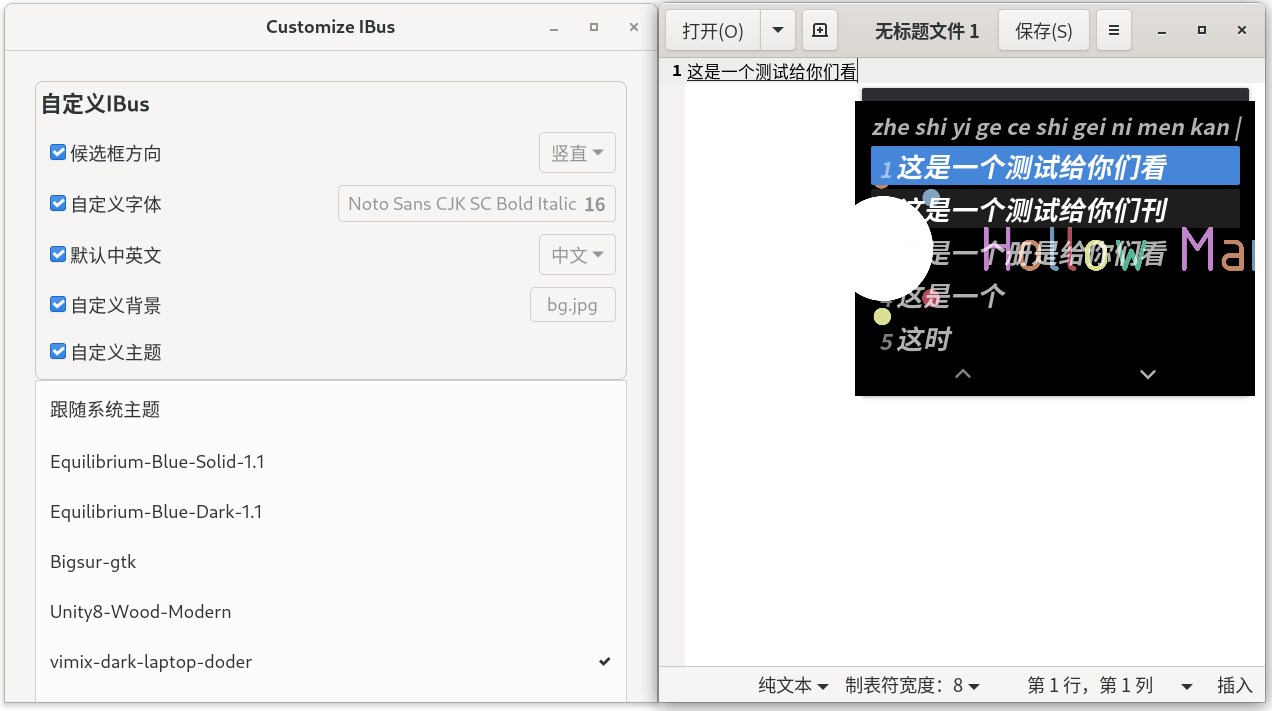
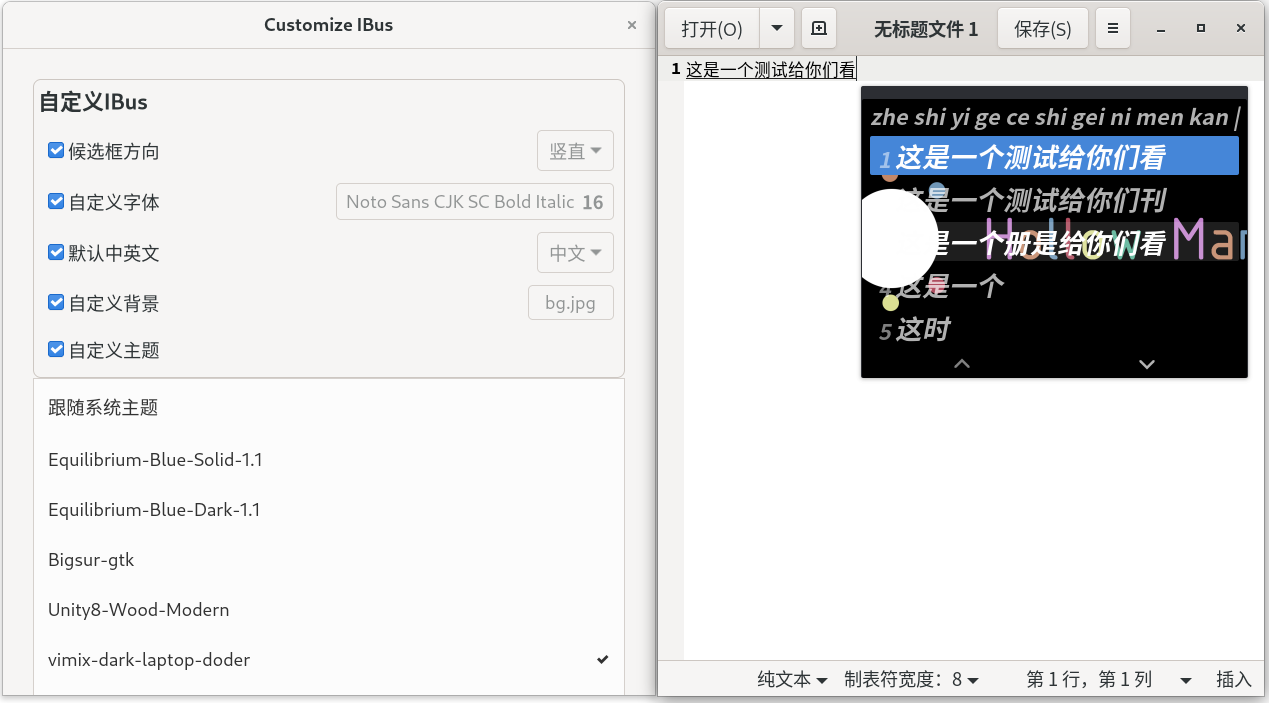
v11: Fix background picture showing style to fit current user style
By adding candidate-box style

For GNOME 3.38

diff --git a/customize-ibus@hollowman.ml/extension.js b/customize-ibus@hollowman.ml/extension.js
@@ -213,17 +213,22 @@ const IBusBGSetting = GObject.registerClass(
     set bg(bg) {
       global.log(_("loading background for IBus:") + bg);
       let candidateBox = CandidatePopup.bin.get_children();
-      if (candidateBox)
+      if (candidateBox) {
         candidateBox[0].set_style(
           'background: url("%s"); background-repeat:no-repeat; background-size:cover;'.format(
             bg
           )
         );
+        candidateBox[0].add_style_class_name("candidate-box");
+      }
     }
 
     destroy() {
       let candidateBox = CandidatePopup.bin.get_children();
-      if (candidateBox) candidateBox[0].set_style("");
+      if (candidateBox) {
+        candidateBox[0].set_style("");
+        candidateBox[0].remove_style_class_name("candidate-box");
+      }
     }
   }
 );

diff --git a/README.md b/README.md
@@ -17,7 +17,7 @@
 
 (English version is down below)
 
-### 注意：如果后期无重大 BUG 的话，v9 将是支持 GNOME 3.38 的最后一个版本
+### 注意：如果后期无重大 BUG 的话，v11 将是支持 GNOME 3.38 的最后一个版本
 
 在 GNOME Shell 中更改 IBus 的候选框方向、shell 主题、背景图片、字体和输入法默认语言。
 
@@ -47,7 +47,7 @@ cd Customize-IBus && make install
 ### _提示：_
 
 1. 推荐使用 X11。如果你在 Wayland 中更改 IBus 主题，你的当前所有工作都将会丢失，因为 Wayland 下只支持通过重新登陆来重启 GNOME-shell。
-2. 在 Fedora 33 和 Ubuntu 20.04, GNOME-shell 3.38 中(v3,v5,v9)通过了测试。
+2. 在 Fedora 33 和 Ubuntu 20.04, GNOME-shell 3.38 中(v3,v5,v9,v11)通过了测试。
 3. 对于那些不使用 GNOME 而是使用如 KDE 等桌面环境的用户，更改 IBus 主题最简单的方法请参见[这里](https://github.com/qvshuo/Ibus-custom-theme)，从而为 IBus 指定一个不同的 GTK 主题。
 
 ## 更改 IBus 背景图片的实现
@@ -83,7 +83,7 @@ _该项目是谷歌编程之夏 (GSoC) 2021 于[OpenSUSE](https://github.com/ope
 
 # Customize IBus
 
-### Note: If no severe bug was found later, v9 will be the last version that support GNOME 3.38.
+### Note: If no severe bug was found later, v11 will be the last version that support GNOME 3.38.
 
 Customize IBus for orientation, shell theme, background picture, font and ascii mode auto-switch.
 
@@ -111,7 +111,7 @@ When user chooses a theme from the list, this extension will first read the them
 ### _NOTE:_
 
 1. Recommend to use X11. If you change IME theme under Wayland, all your current work may be lost (Since Wayland only support relogin to restart the GNOME-shell).
-2. Tested on Fedora 33 and Ubuntu 20.04, GNOME-shell 3.38(v3, v5, v9).
+2. Tested on Fedora 33 and Ubuntu 20.04, GNOME-shell 3.38(v3, v5, v9, v11).
 3. For users who don't use GNOME but other desktop environments like KDE, the easiest way to change the IBus theme is to act as described in [here](https://github.com/qvshuo/Ibus-custom-theme) to use a different GTK theme for IBus.
 
 ## To-do
